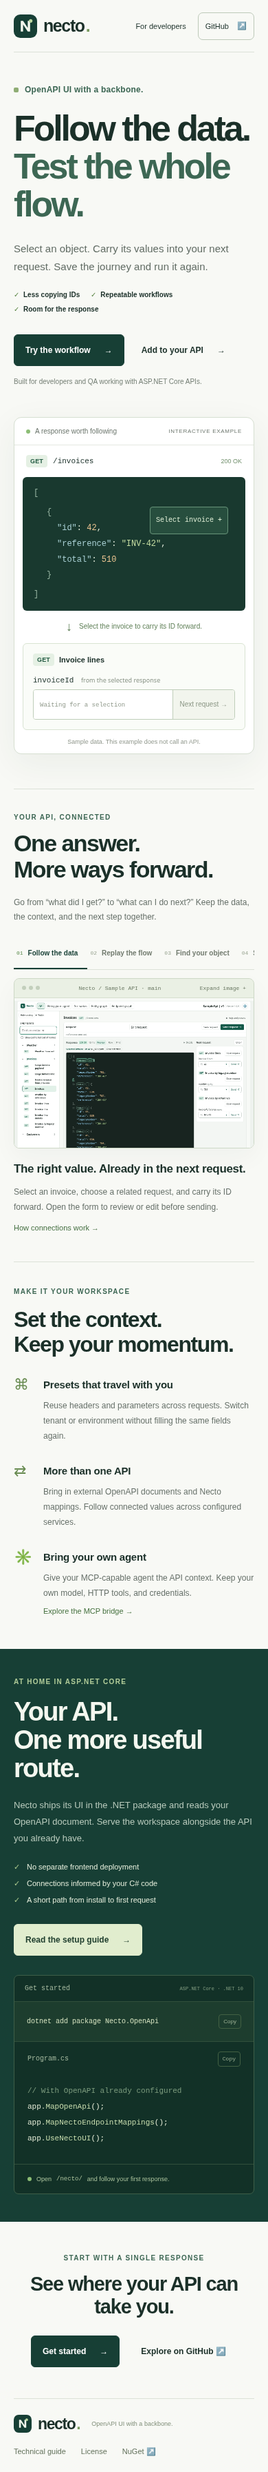
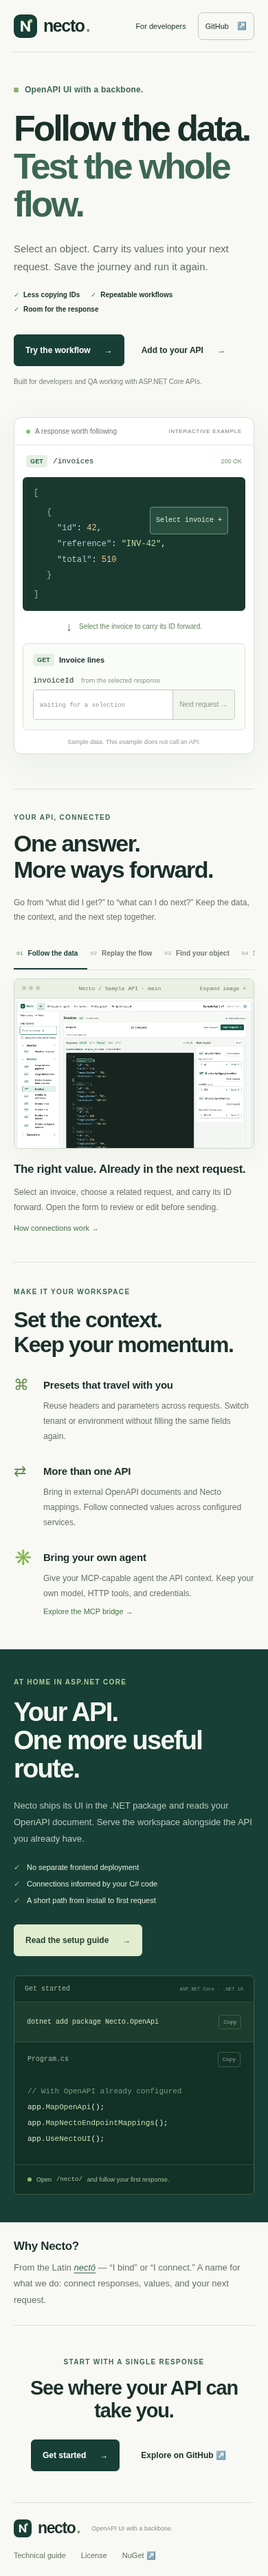
Explain the Latin origin of Necto's name

Changed region(s): [[0.0, 0.0, 1.0, 0.9994], [0.0615, 0.9682, 0.1231, 0.9994]]

diff --git a/docs/landing-page/index.html b/docs/landing-page/index.html
@@ -69,6 +69,7 @@ app.<span class="code-call">MapNectoEndpointMappings</span>();
 app.<span class="code-call">UseNectoUI</span>();</code></pre><div class="code-footer"><span class="live-dot" aria-hidden="true"></span> Open <code>/necto/</code> and follow your first response.</div></div>
     </div></section>
 
+    <aside class="name-origin wrap" aria-labelledby="name-origin-title"><h2 id="name-origin-title">Why Necto?</h2><p>From the Latin <a href="https://cld.bbaw.de/lemma/lat/necto" lang="la">nectō</a> — “I bind” or “I connect.” A name for what we do: connect responses, values, and your next request.</p></aside>
     <section class="last-call wrap"><p class="eyebrow">Start with a single response</p><h2>See where your API can take you.</h2><div><a class="button primary" href="technical.html#quickstart">Get started <span aria-hidden="true">→</span></a><a class="button text-button" href="https://github.com/nilphilus/necto">Explore on GitHub ↗</a></div></section>
   </main>
   <footer class="site-footer wrap"><a class="brand" href="index.html"><img src="assets/mark.svg" alt="" width="26" height="26">necto<span class="brand-dot">.</span></a><p>OpenAPI UI with a backbone.</p><nav aria-label="Footer"><a href="technical.html">Technical guide</a><a href="https://github.com/nilphilus/necto/blob/main/LICENSE.txt">License</a><a href="https://www.nuget.org/packages/Necto.OpenApi">NuGet ↗</a></nav></footer>

diff --git a/docs/landing-page/landing.css b/docs/landing-page/landing.css
@@ -737,6 +737,33 @@ h1>span {
   color:#a9c19b;
   flex-wrap:wrap
 }
+.name-origin {
+  display:flex;
+  align-items:baseline;
+  gap:32px;
+  padding-block:30px;
+  border-bottom:1px solid var(--line)
+}
+.name-origin h2 {
+  flex:none;
+  margin:0;
+  font-size:17px;
+  font-weight:620;
+  letter-spacing:-.02em
+}
+.name-origin p {
+  margin:0;
+  max-width:680px;
+  color:var(--muted);
+  font-size:13px;
+  line-height:1.8
+}
+.name-origin a {
+  color:var(--green);
+  font-style:italic;
+  text-decoration:underline;
+  text-underline-offset:3px
+}
 .last-call {
   text-align:center;
   padding-block:70px 65px
@@ -1242,6 +1269,13 @@ h1>span {
   }
   .code-heading span:last-child {
     font-size:7px
+  }
+  .name-origin {
+    display:block;
+    padding-block:25px
+  }
+  .name-origin h2 {
+    margin-bottom:9px
   }
   .last-call {
     padding-block:45px

diff --git a/docs/landing-page/README.md b/docs/landing-page/README.md
@@ -26,6 +26,8 @@ Lead with response-to-request value reuse, then show scenarios, whole-response s
 
 Retain the repository tagline: **OpenAPI UI with a backbone.** Use the real `Necto.OpenApi` package name. The NuGet package was checked at authoring time (0.2.2). Do not describe the Commons Clause license as unrestricted open source. Do not advertise unmerged authentication or unfinished call overrides, unlimited payloads, inferred business workflows, or an agent that executes requests inside Necto.
 
+The short **Why Necto?** note links the name to Latin *nectō* (to bind or connect) and the product's response-to-request connections. Its dictionary reference is [Lewis & Short, via CLD](https://cld.bbaw.de/lemma/lat/necto).
+
 ## Screenshot provenance
 
 Captured from SampleApi with the UI from main `3286b4b` at 1366 × 900:

diff --git a/docs/landing-page/pl.md b/docs/landing-page/pl.md
@@ -27,6 +27,10 @@ Dla programistów i QA pracujących z API ASP.NET Core.
 
 Presety współdzielą wartości między requestami. Połączenia zewnętrzne dodają inne API i ich mapowania. Most MCP przekazuje kontekst Twojemu agentowi, który korzysta z własnego modelu, narzędzi HTTP i poświadczeń.
 
+## Dlaczego Necto?
+
+Od łacińskiego [nectō](https://cld.bbaw.de/lemma/lat/necto) — „wiążę” lub „łączę”. Nazwa oddaje ideę produktu: łączenie odpowiedzi, wartości i kolejnego requestu.
+
 ## Twoje API. Jeszcze jedna przydatna ścieżka.
 
 Interfejs jest dołączony do pakietu .NET i korzysta z dokumentu OpenAPI. Szczegóły wdrożenia, działania mapowań i ograniczeń są na osobnej stronie technicznej.

diff --git a/docs/landing-page/en.md b/docs/landing-page/en.md
@@ -39,6 +39,10 @@ Necto ships its UI in the .NET package and reads your OpenAPI document. Serve th
 
 **Read the setup guide**
 
+## Why Necto?
+
+From the Latin [nectō](https://cld.bbaw.de/lemma/lat/necto) — “I bind” or “I connect.” A name for what we do: connect responses, values, and your next request.
+
 ## See where your API can take you.
 
 **Get started** · **Explore on GitHub**
